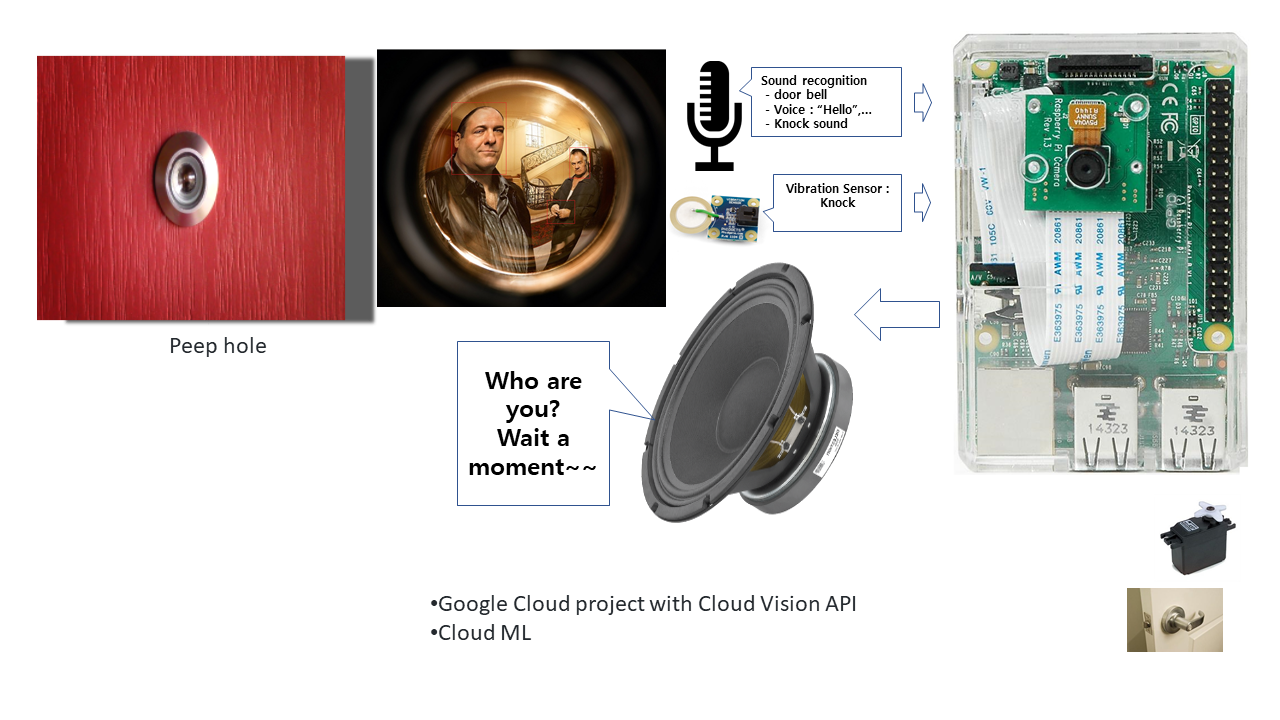
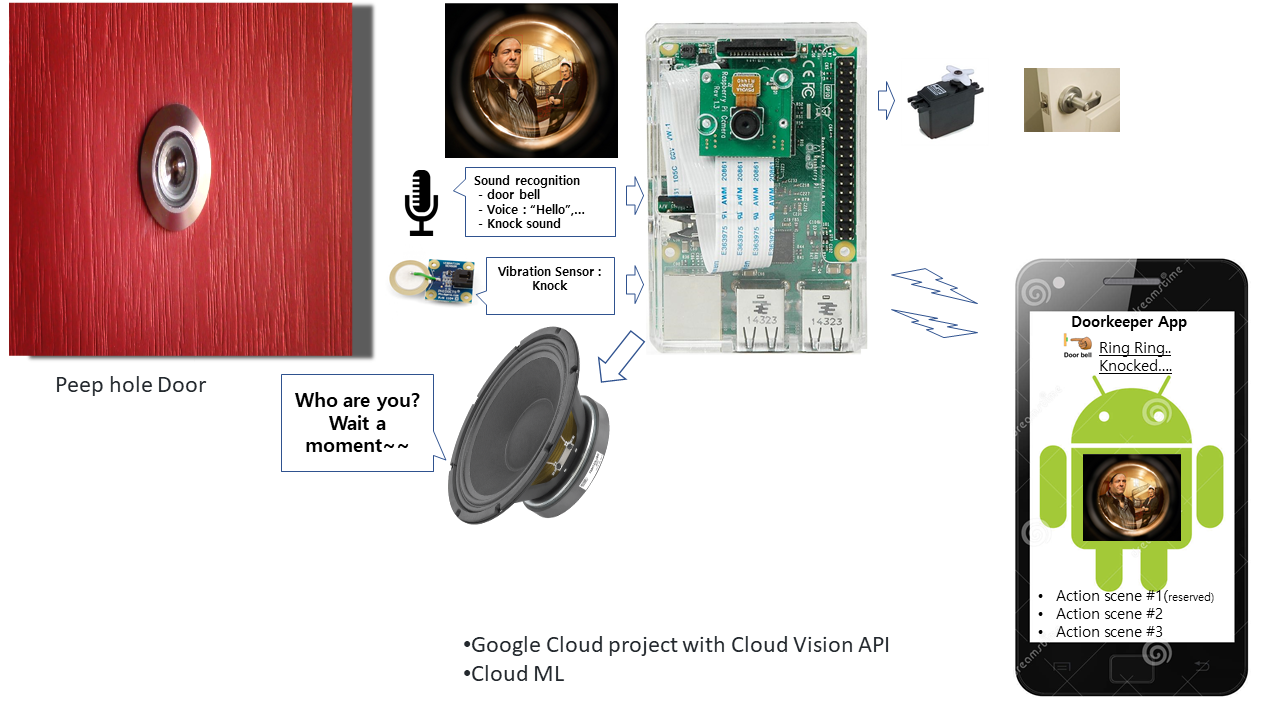
Add files via upload
ghackfair registration contents renewal

diff --git a/README.md b/README.md
@@ -1,6 +1,7 @@
 # Androd Things Doorkeeper
 
 The Android Things Doorkeeper
+현재 내용 추가하고 다듬는 중.(8.21오전08시. 일단락예정
 
 ## Screenshots
 
@@ -17,13 +18,15 @@ The Android Things Doorkeeper
     - Speaker
 - working...
 
-## Setup and Build
-
-- working...
-
 
 ## Running
 
+부재중에 방문객 또는 택배배탈로 도어벨이 울리거나 문을 두드릴 경우,eet 
+ 1. Mic또는 진동센서로 음성/도어벨/문두드림등을 감지하여, 
+ 2. "누구세요? 잠시만 기다려주세요, 등의 음성 메시지 출력 , 
+ 3. 도어에 PeepHole있는 경우 카메라로 영상(인물 성별/나이등) 인식하여 AI 음성 대화 가능. (현관도어폰영상가능).
+ 4. 안드로이드폰에 상황 전달. 준비된 action을 수행 또는 직접 음성 대화..
+ 5. 문열림 가능토록 RC서보 조작 기능.
 - working...
 
 
@@ -41,4 +44,4 @@ The Android Things Doorkeeper
 
 ## License
 
-- working...
+- not y...
